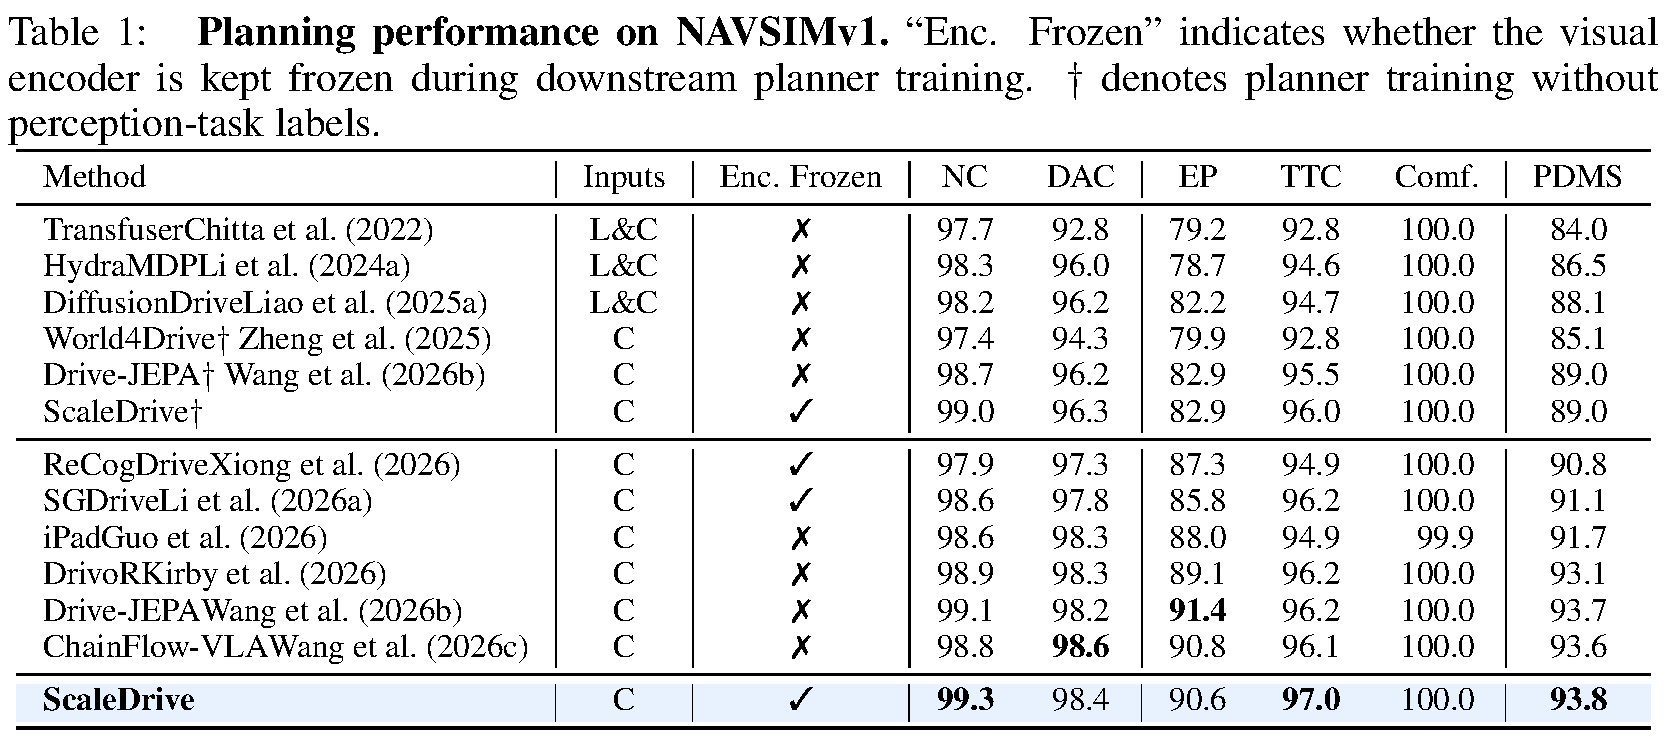
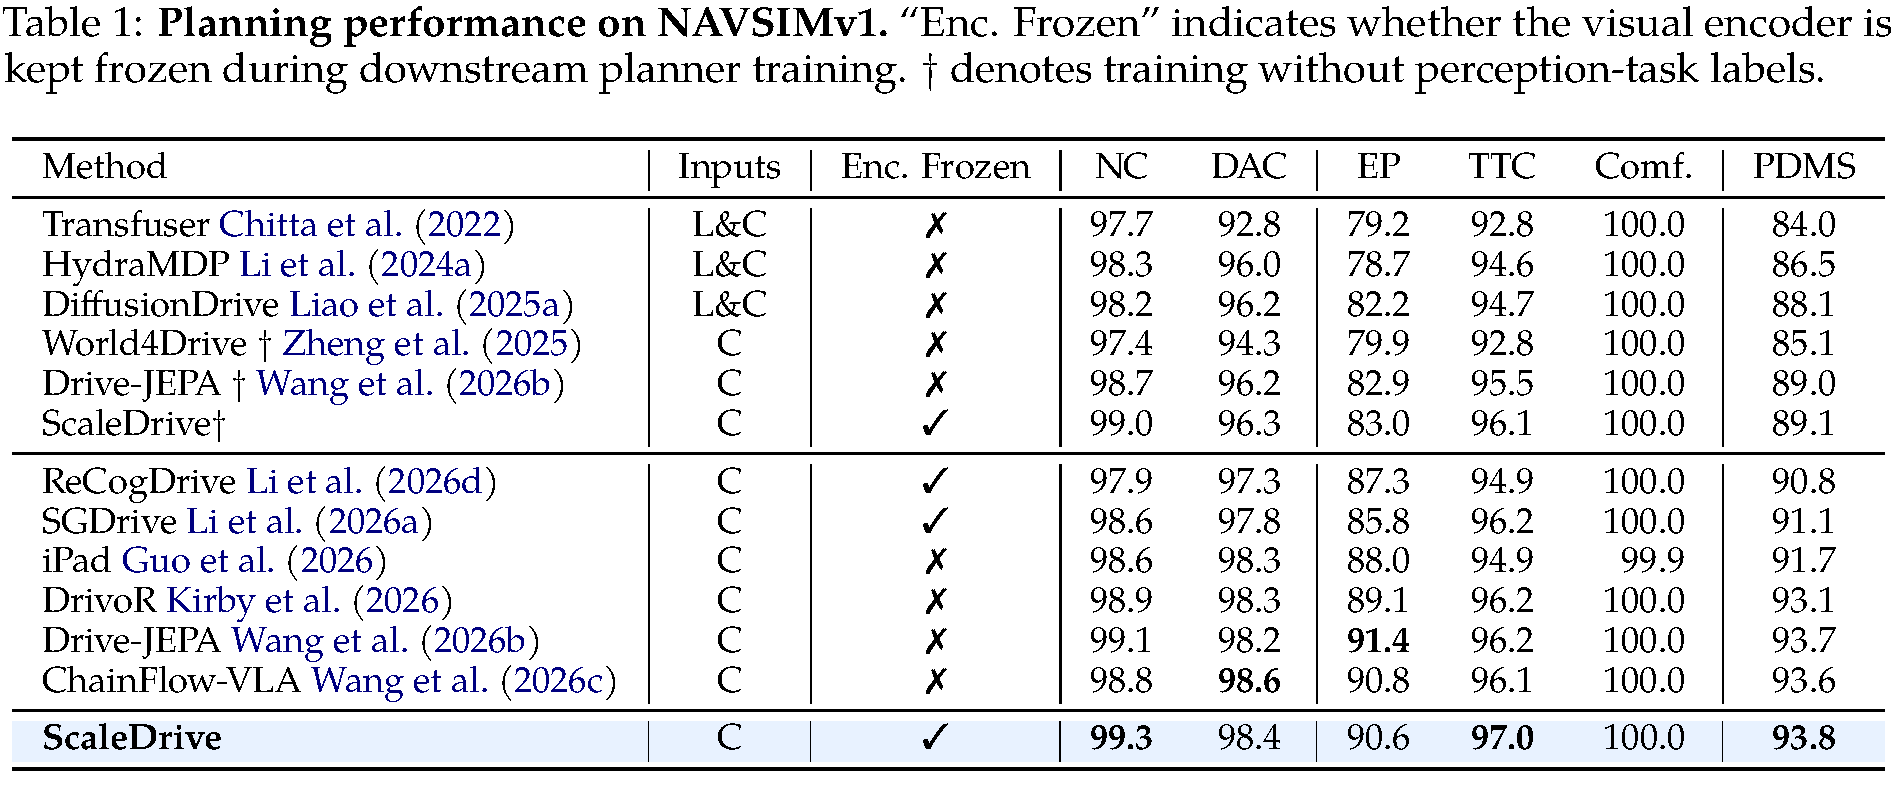
Add paper authors and refine result tables

diff --git a/index.html b/index.html
@@ -11,7 +11,7 @@
   <meta property="og:image" content="https://um-lab.github.io/ScaleDrive/assets/overview.webp">
   <title>ScaleDrive | Academic Project Page</title>
   <link rel="icon" href="assets/favicon.svg" type="image/svg+xml">
-  <link rel="stylesheet" href="styles.css?v=4">
+  <link rel="stylesheet" href="styles.css?v=5">
 </head>
 <body>
   <a class="skip-link" href="#main">Skip to content</a>
@@ -19,6 +19,21 @@
     <section class="hero" id="top">
       <div class="container">
         <h1>Scaling Action-Free Video Latent Prediction for Transferable Representations in End-to-End Autonomous Driving</h1>
+        <p class="author-list">
+          <span>Xingtai Gui<sup>1,*†</sup></span>
+          <span>Xubin Zhou<sup>2,*</sup></span>
+          <span>Yucheng Zhou<sup>1,*</sup></span>
+          <span>Dongqian Guo<sup>1</sup></span>
+          <span>Jiahao Gong<sup>3</sup></span>
+          <span>Feiyang Tan<sup>3</sup></span>
+          <span>Jianbing Shen<sup>1,‡</sup></span>
+        </p>
+        <p class="affiliations">
+          <span><sup>1</sup> SKL-IOTSC, Department of AI, University of Macau</span>
+          <span><sup>2</sup> Harbin Institute of Technology</span>
+          <span><sup>3</sup> Afari Intelligent Drive</span>
+        </p>
+        <p class="author-notes"><span>* Equal contribution.</span><span>† Work done during the internship at Afari Intelligent Drive.</span><span>‡ Corresponding author.</span></p>
         <nav class="resource-links" aria-label="Project links">
           <a href="#abstract"><span aria-hidden="true">▤</span> Abstract</a>
           <a href="#results"><span aria-hidden="true">▥</span> Results</a>
@@ -50,22 +65,22 @@
         <p class="section-intro">Planning results across four evaluation benchmarks. The tables below are cropped from the manuscript.</p>
         <h3>NAVSIMv1</h3>
         <figure class="research-figure benchmark-figure">
-          <img src="assets/navsimv1-results.png" alt="NAVSIMv1 planning comparison table; ScaleDrive reaches 93.8 PDMS" loading="lazy">
+          <img src="assets/navsimv1-results.png?v=2" alt="NAVSIMv1 planning comparison table; ScaleDrive reaches 93.8 PDMS" loading="lazy">
           <figcaption>ScaleDrive reaches 93.8 PDMS with the visual encoder frozen.</figcaption>
         </figure>
         <h3>NAVSIMv2</h3>
         <figure class="research-figure benchmark-figure">
-          <img src="assets/navsimv2-results.png" alt="NAVSIMv2 planning comparison table; ScaleDrive reaches 90.5 EPDMS" loading="lazy">
+          <img src="assets/navsimv2-results.png?v=2" alt="NAVSIMv2 planning comparison table; ScaleDrive reaches 90.5 EPDMS" loading="lazy">
           <figcaption>ScaleDrive reaches 90.5 EPDMS.</figcaption>
         </figure>
         <h3>Bench2Drive</h3>
-        <figure class="research-figure benchmark-figure">
-          <img src="assets/bench2drive-results.png" alt="Bench2Drive comparison table of TFv6 with BEV, V-JEPA2, and ScaleDrive representations" loading="lazy">
+        <figure class="research-figure benchmark-figure compact-figure">
+          <img src="assets/bench2drive-results.png?v=2" alt="Bench2Drive comparison table of TFv6 with BEV, V-JEPA2, and ScaleDrive representations" loading="lazy">
           <figcaption>TFv6 with ScaleDrive improves Driving Score and Success Rate over the BEV baseline.</figcaption>
         </figure>
         <h3>HUGSIM</h3>
         <figure class="research-figure benchmark-figure">
-          <img src="assets/hugsim-results.png" alt="HUGSIM comparison table showing Route Completion and HD-Score across scenarios" loading="lazy">
+          <img src="assets/hugsim-results.png?v=2" alt="HUGSIM comparison table showing Route Completion and HD-Score across scenarios" loading="lazy">
           <figcaption>ScaleDrive improves average Route Completion and HD-Score for LTF and ChainFlow.</figcaption>
         </figure>
         <h3>Transfer across planners</h3>

diff --git a/styles.css b/styles.css
@@ -14,4 +14,6 @@ h1,h2,h3,p{margin-top:0}h1{font-size:clamp(30px,3.7vw,42px);line-height:1.3;font
 .video-grid{display:grid;grid-template-columns:repeat(2,minmax(0,1fr));gap:20px;margin-bottom:26px}.video-grid video{display:block;width:100%;aspect-ratio:16/9;background:#111}.video-grid figcaption{text-align:center;font-size:15px;margin-top:8px}footer{padding:34px 0 42px;text-align:center;font-size:13px;color:var(--muted)}footer p{margin:0 0 7px}footer a{color:var(--blue)}
 @media(max-width:700px){.hero{padding:40px 0 22px}h1{font-size:29px}h2{font-size:26px}.authors{font-size:18px}.section{padding:48px 0}.section-tight{padding:12px 0 42px}.video-grid{grid-template-columns:1fr;gap:22px}.video-grid figure{margin-bottom:4px}h3{margin-top:30px}}
 @media(prefers-reduced-motion:reduce){:root{scroll-behavior:auto}}
-.benchmark-figure{overflow-x:auto;padding-bottom:6px}.benchmark-figure img{min-width:720px}.benchmark-figure figcaption{min-width:720px}.code-section{text-align:center}.code-section p{font-size:18px;color:var(--muted);margin-bottom:0}
+.benchmark-figure{max-width:900px;overflow-x:auto;padding-bottom:6px;margin:28px auto 42px}.benchmark-figure img{min-width:0}.compact-figure{max-width:760px}.table-scroll{max-width:900px;margin-inline:auto}.code-section{text-align:center}.code-section p{font-size:18px;color:var(--muted);margin-bottom:0}
+.author-list{display:flex;flex-wrap:wrap;justify-content:center;column-gap:18px;row-gap:3px;max-width:860px;margin:0 auto 14px;color:var(--blue);font-size:18px}.author-list span{white-space:nowrap}.author-list sup,.affiliations sup{font-size:.68em;vertical-align:super}.affiliations{display:flex;flex-wrap:wrap;justify-content:center;column-gap:22px;row-gap:2px;margin:0 auto 11px;font-size:14px}.author-notes{display:flex;flex-wrap:wrap;justify-content:center;column-gap:17px;row-gap:2px;margin:0 auto 22px;color:var(--muted);font-size:12px}
+@media(max-width:760px){.benchmark-figure img,.benchmark-figure figcaption{min-width:720px}.author-list{font-size:16px;column-gap:12px}.affiliations{font-size:13px}.author-notes{font-size:11px}}
